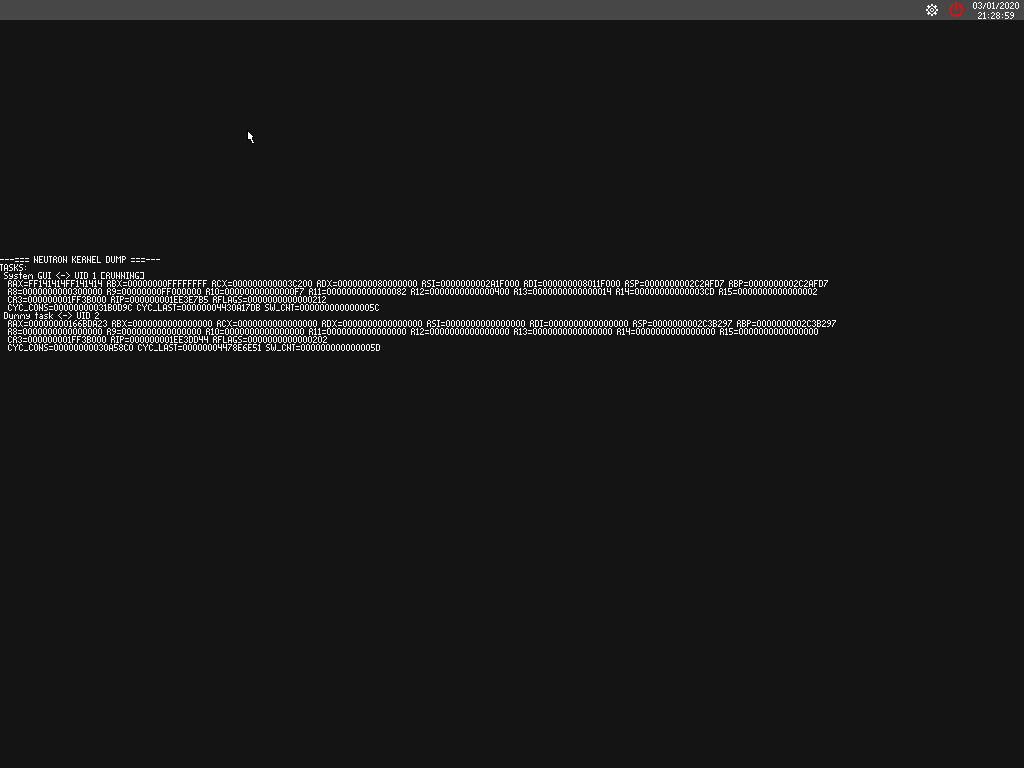
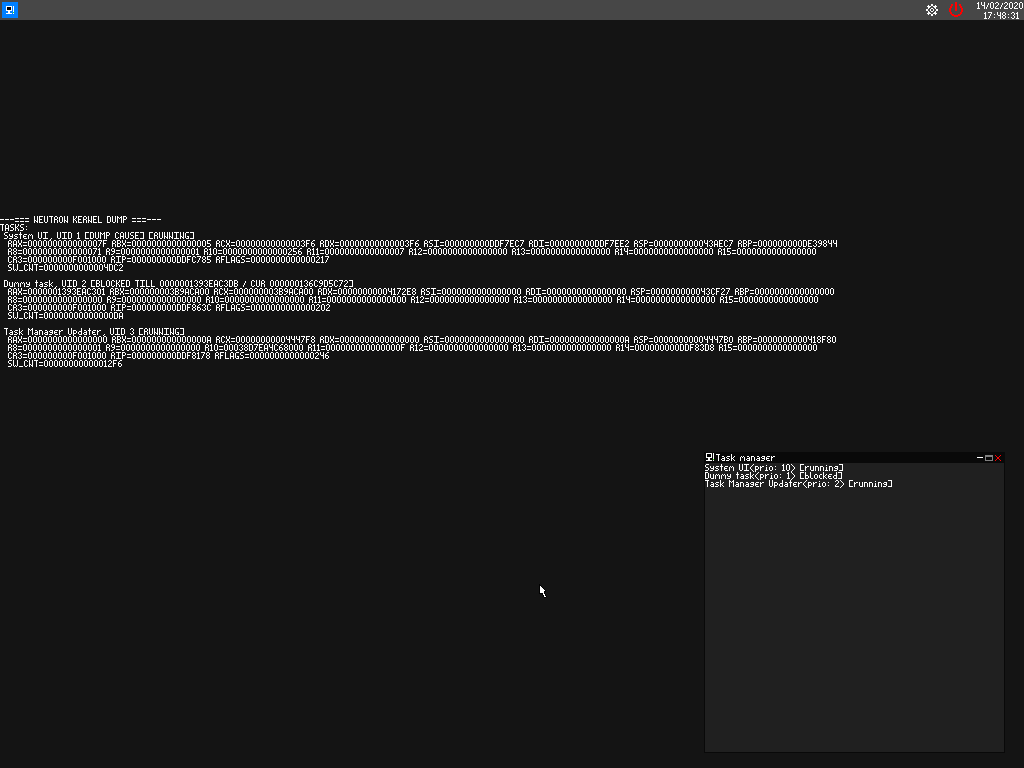
Task blocking

diff --git a/src/krnl.c b/src/krnl.c
@@ -158,14 +158,8 @@ void krnl_dump_task_state(task_t* task){
 
     //Print cycles
     temp[0] = 0;
-    strcat(temp, "  CYC_CONS=");
-    strcat(temp, sprintub16(temp2, task->state.cycles, 16));
-    strcat(temp, " CYC_LAST=");
-    strcat(temp, sprintub16(temp2, task->state.last_cycle, 16));
-    strcat(temp, " SW_CNT=");
+    strcat(temp, "  SW_CNT=");
     strcat(temp, sprintub16(temp2, task->state.switch_cnt, 16));
-    strcat(temp, " CYC_PREV_LAST=");
-    strcat(temp, sprintub16(temp2, task->state.prev_last_cycle, 16));
     gfx_verbose_println(temp);
 }
 
@@ -185,17 +179,27 @@ void krnl_dump(void){
         //If task at that index is valid
         if(tasks[i].valid){
             //Print its details
-            char temp[100];
+            char temp[200];
             temp[0] = 0;
-            char temp2[10];
+            char temp2[20];
             strcat(temp, " ");
             strcat(temp, tasks[i].name);
-            strcat(temp, " <-> UID ");
+            strcat(temp, ", UID ");
             strcat(temp, sprintu(temp2, tasks[i].uid, 1));
             if(tasks[i].uid == mtask_get_uid())
+                strcat(temp, " [DUMP CAUSE]");
+            if(tasks[i].blocked){
+                strcat(temp, " [BLOCKED TILL ");
+                strcat(temp, sprintub16(temp2, tasks[i].blocked_till_cycle, 16));
+                strcat(temp, " / CUR ");
+                strcat(temp, sprintub16(temp2, rdtsc(), 16));
+                strcat(temp, "]");
+            } else {
                 strcat(temp, " [RUNNING]");
+            }
             gfx_verbose_println(temp);
             krnl_dump_task_state(&tasks[i]);
+            gfx_verbose_println("");
         }
     }
 }
@@ -258,8 +262,10 @@ void gui_task(void){
 
 uint64_t dummy_var = 0;
 void dummy(void){
-    while(1)
+    while(1){
         dummy_var++;
+        mtask_dly_cycles(1000000000);
+    }
 }
 
 /*
@@ -301,7 +307,7 @@ EFI_STATUS EFIAPI efi_main(EFI_HANDLE ImageHandle, EFI_SYSTEM_TABLE* SystemTable
     uint64_t efi_map_key = dram_init();
 
     //Set verbose mode
-    krnl_verbose = 0;
+    krnl_verbose = 1;
     gfx_set_verbose(krnl_verbose);
 
     //Do some graphics-related initialization stuff
@@ -329,19 +335,16 @@ EFI_STATUS EFIAPI efi_main(EFI_HANDLE ImageHandle, EFI_SYSTEM_TABLE* SystemTable
     //Enumerate PCI devices
     krnl_boot_status(">>> Detecting PCI devices <<<", 30);
     pci_enumerate();
-    //Enumerate partitions
-    //krnl_boot_status(">>> Detecting drive partitions <<<", 45);
-    //diskio_init();
     //Initialize ACPI
-    krnl_boot_status(">>> Initializing ACPI <<<", 60);
+    krnl_boot_status(">>> Initializing ACPI <<<", 45);
     acpi_init();
     //Configure GUI
-    krnl_boot_status(">>> Configuring GUI <<<", 95);
+    krnl_boot_status(">>> Configuring GUI <<<", 60);
     gui_init();
     //Set up IDT
 	//Disable interrupts
 	__asm__ volatile("cli");
-    krnl_boot_status(">>> Setting up interrupts <<<", 97);
+    krnl_boot_status(">>> Setting up interrupts <<<", 75);
     //Exit UEFI boot services before we can use IDT
     SystemTable->BootServices->ExitBootServices(ImageHandle, efi_map_key);
     //Get the current code selector

diff --git a/src/mtask/mtask.c b/src/mtask/mtask.c
@@ -92,8 +92,10 @@ void mtask_create_task(uint64_t stack_size, char* name, uint8_t priority, void(*
     __asm__ volatile("pushfq; pop %0" : "=m" (rflags));
     task->state.cr3 = cr3;
     task->state.rflags = rflags;
-    //Mark the task as valid
+    //Reset some vars
     task->valid = 1;
+    task->blocked = 0;
+    task->blocked_till_cycle = 0;
 
     //Check if it's the first task ever created
     if(mtask_next_task++ == 0){
@@ -132,20 +134,36 @@ void mtask_schedule(void){
     } else {
         //If not, restore its time
         mtask_cur_task->prio_cnt = mtask_cur_task->priority;
-        //Calculate the amount of cycles the task took
-        mtask_cur_task->state.last_cycle = rdtsc();
-        mtask_cur_task->state.cycles = (mtask_cur_task->state.last_cycle - mtask_cur_task->state.prev_last_cycle) * mtask_cur_task->priority;
-        mtask_cur_task->state.prev_last_cycle = mtask_cur_task->state.last_cycle;
         //Go find a new task
         while(1){
-            //We scan through the task list to find a next task that's valid and running
+            //We scan through the task list to find a next task that's valid and not blocked
             mtask_cur_task_no++;
             if(mtask_cur_task_no >= mtask_next_task)
                 mtask_cur_task_no = 0;
-            if(mtask_task_list[mtask_cur_task_no].valid)
+
+            //Remove blocks on tasks that need to be unblocked
+            if(mtask_task_list[mtask_cur_task_no].blocked){
+                if(rdtsc() >= mtask_task_list[mtask_cur_task_no].blocked_till_cycle){
+                    mtask_task_list[mtask_cur_task_no].blocked = 0;
+                    mtask_task_list[mtask_cur_task_no].blocked_till_cycle = 0;
+                }
+            }
+
+            if(mtask_task_list[mtask_cur_task_no].valid && !mtask_task_list[mtask_cur_task_no].blocked)
                 break;
         }
     }
 
     mtask_cur_task = &mtask_task_list[mtask_cur_task_no];
+}
+
+/*
+ * Blocks the currently running task for a specific amount of CPU cycles
+ */
+void mtask_dly_cycles(uint64_t cycles){
+    //Set the block
+    mtask_cur_task->blocked_till_cycle = rdtsc() + cycles;
+    mtask_cur_task->blocked = 1;
+    //This variable will be set to 0 by the scheduler
+    while(mtask_cur_task->blocked);
 }

diff --git a/src/mtask/mtask.h b/src/mtask/mtask.h
@@ -6,16 +6,20 @@
 typedef struct {
     uint64_t rax, rbx, rcx, rdx, rsi, rdi, rbp, rsp;
     uint64_t r8,  r9,  r10, r11, r12, r13, r14, r15;
-    uint64_t cr3, rip, rflags, cycles, last_cycle, switch_cnt, prev_last_cycle;
+    uint64_t cr3, rip, rflags, switch_cnt;
 } __attribute__((packed)) task_state_t;
 
 typedef struct {
     task_state_t state;
-    uint64_t uid;
+
     uint8_t valid;
+    uint64_t uid;
+    char name[64];
+
     uint8_t priority;
     uint8_t prio_cnt;
-    char name[64];
+    volatile uint8_t blocked;
+    uint64_t blocked_till_cycle;
 } __attribute__((packed)) task_t;
 
 #define MTASK_TASK_COUNT            32
@@ -30,5 +34,7 @@ task_t* mtask_get_task_list(void);
 void mtask_save_state(void);
 void mtask_restore_state(void);
 void mtask_schedule(void);
+
+void mtask_dly_cycles(uint64_t cycles);
 
 #endif

diff --git a/src/gui/stdgui.c b/src/gui/stdgui.c
@@ -160,11 +160,14 @@ void _stdgui_task_mgr_updater(){
                 //Append its name to the string
                 strcat(temp, tasks[i].name);
                 //Append its kilocycle count to the string
-                strcat(temp, " (kC: ");
-                strcat(temp, sprintu(temp2, tasks[i].state.cycles / 1000, 1));
-                strcat(temp, ", prio: ");
+                strcat(temp, "(prio: ");
                 strcat(temp, sprintu(temp2, tasks[i].priority, 1));
-                strcat(temp, ")\n");
+                strcat(temp, ")");
+                if(tasks[i].blocked)
+                    strcat(temp, " [blocked]");
+                else
+                    strcat(temp, " [running]");
+                strcat(temp, "\n");
             }
         }
         //Copy the temporary string
